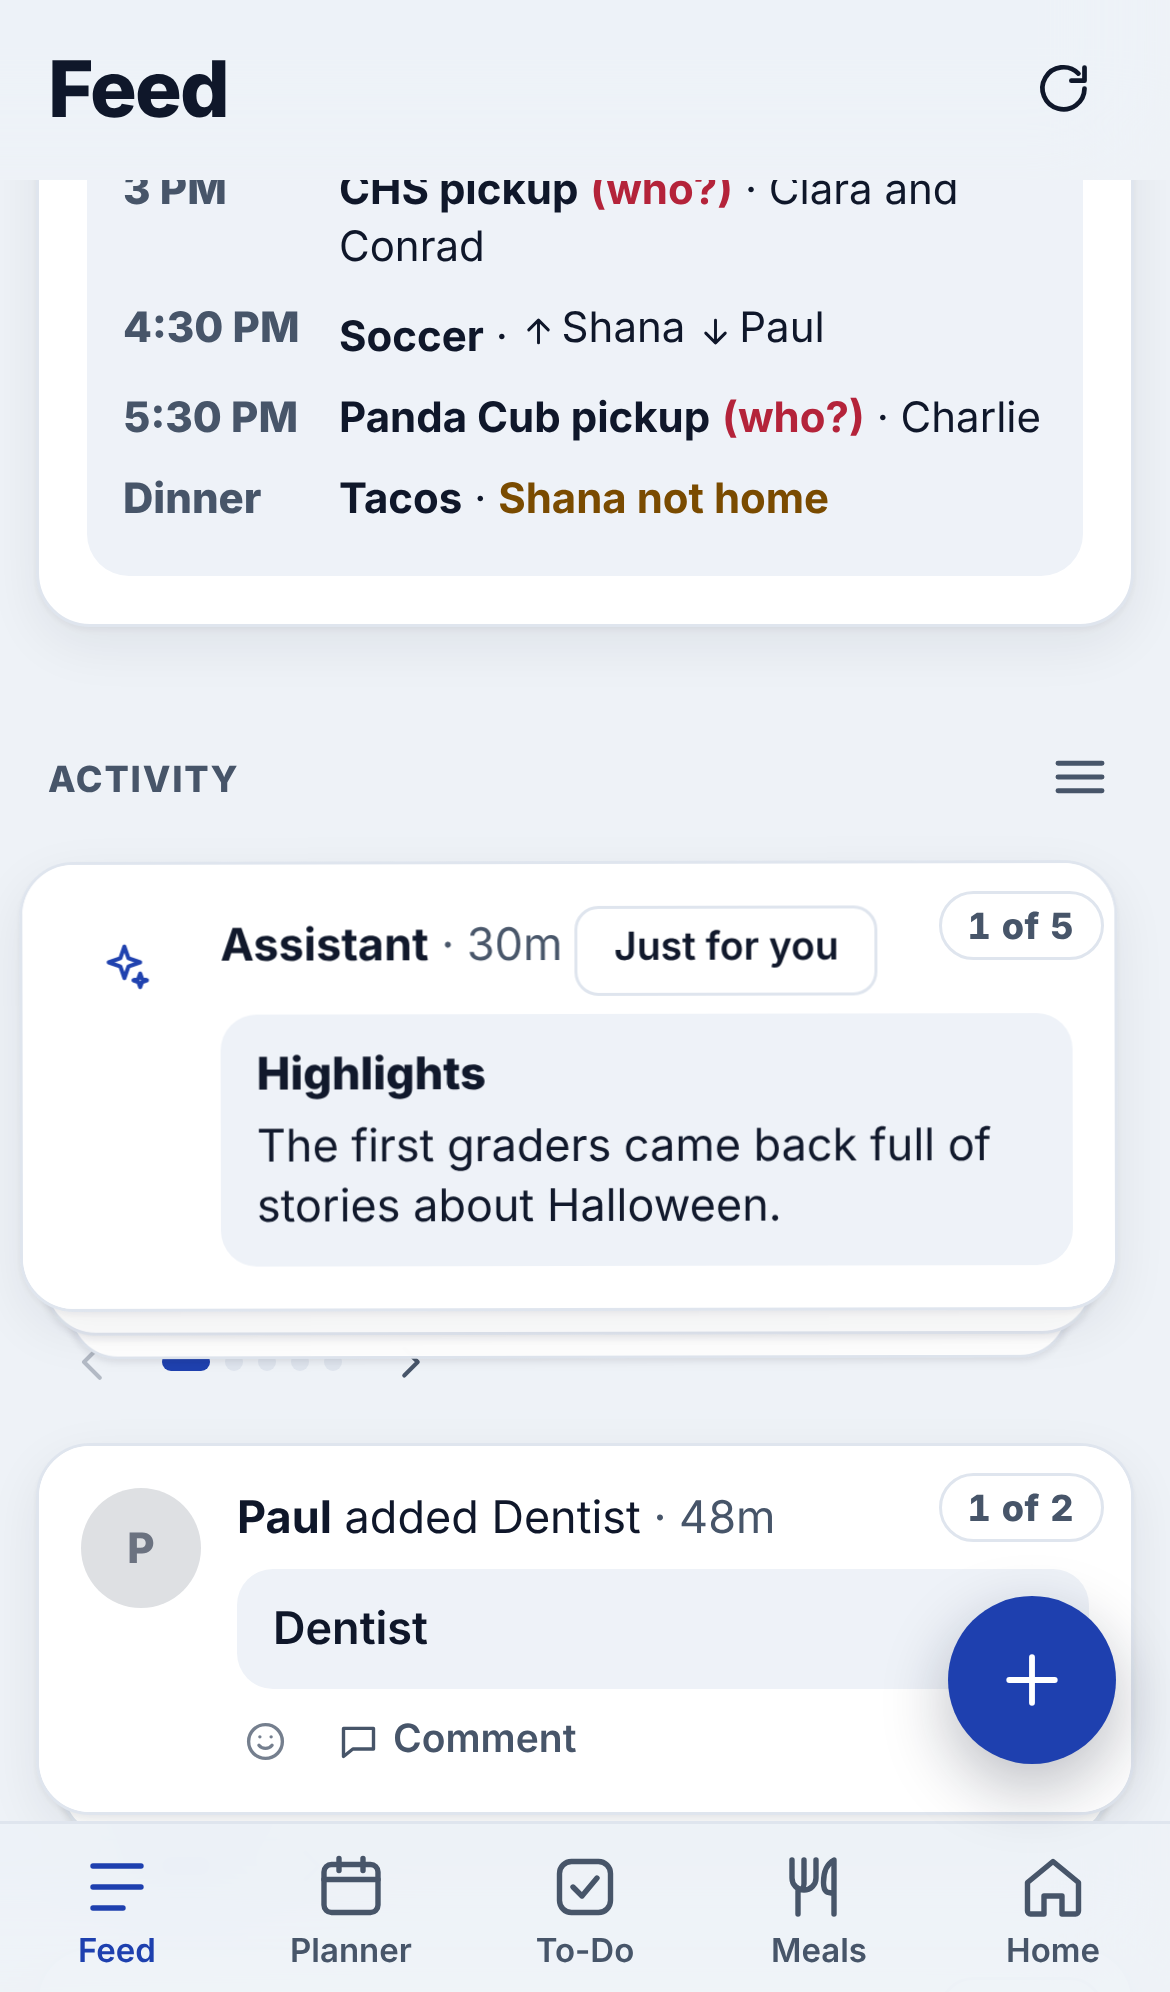
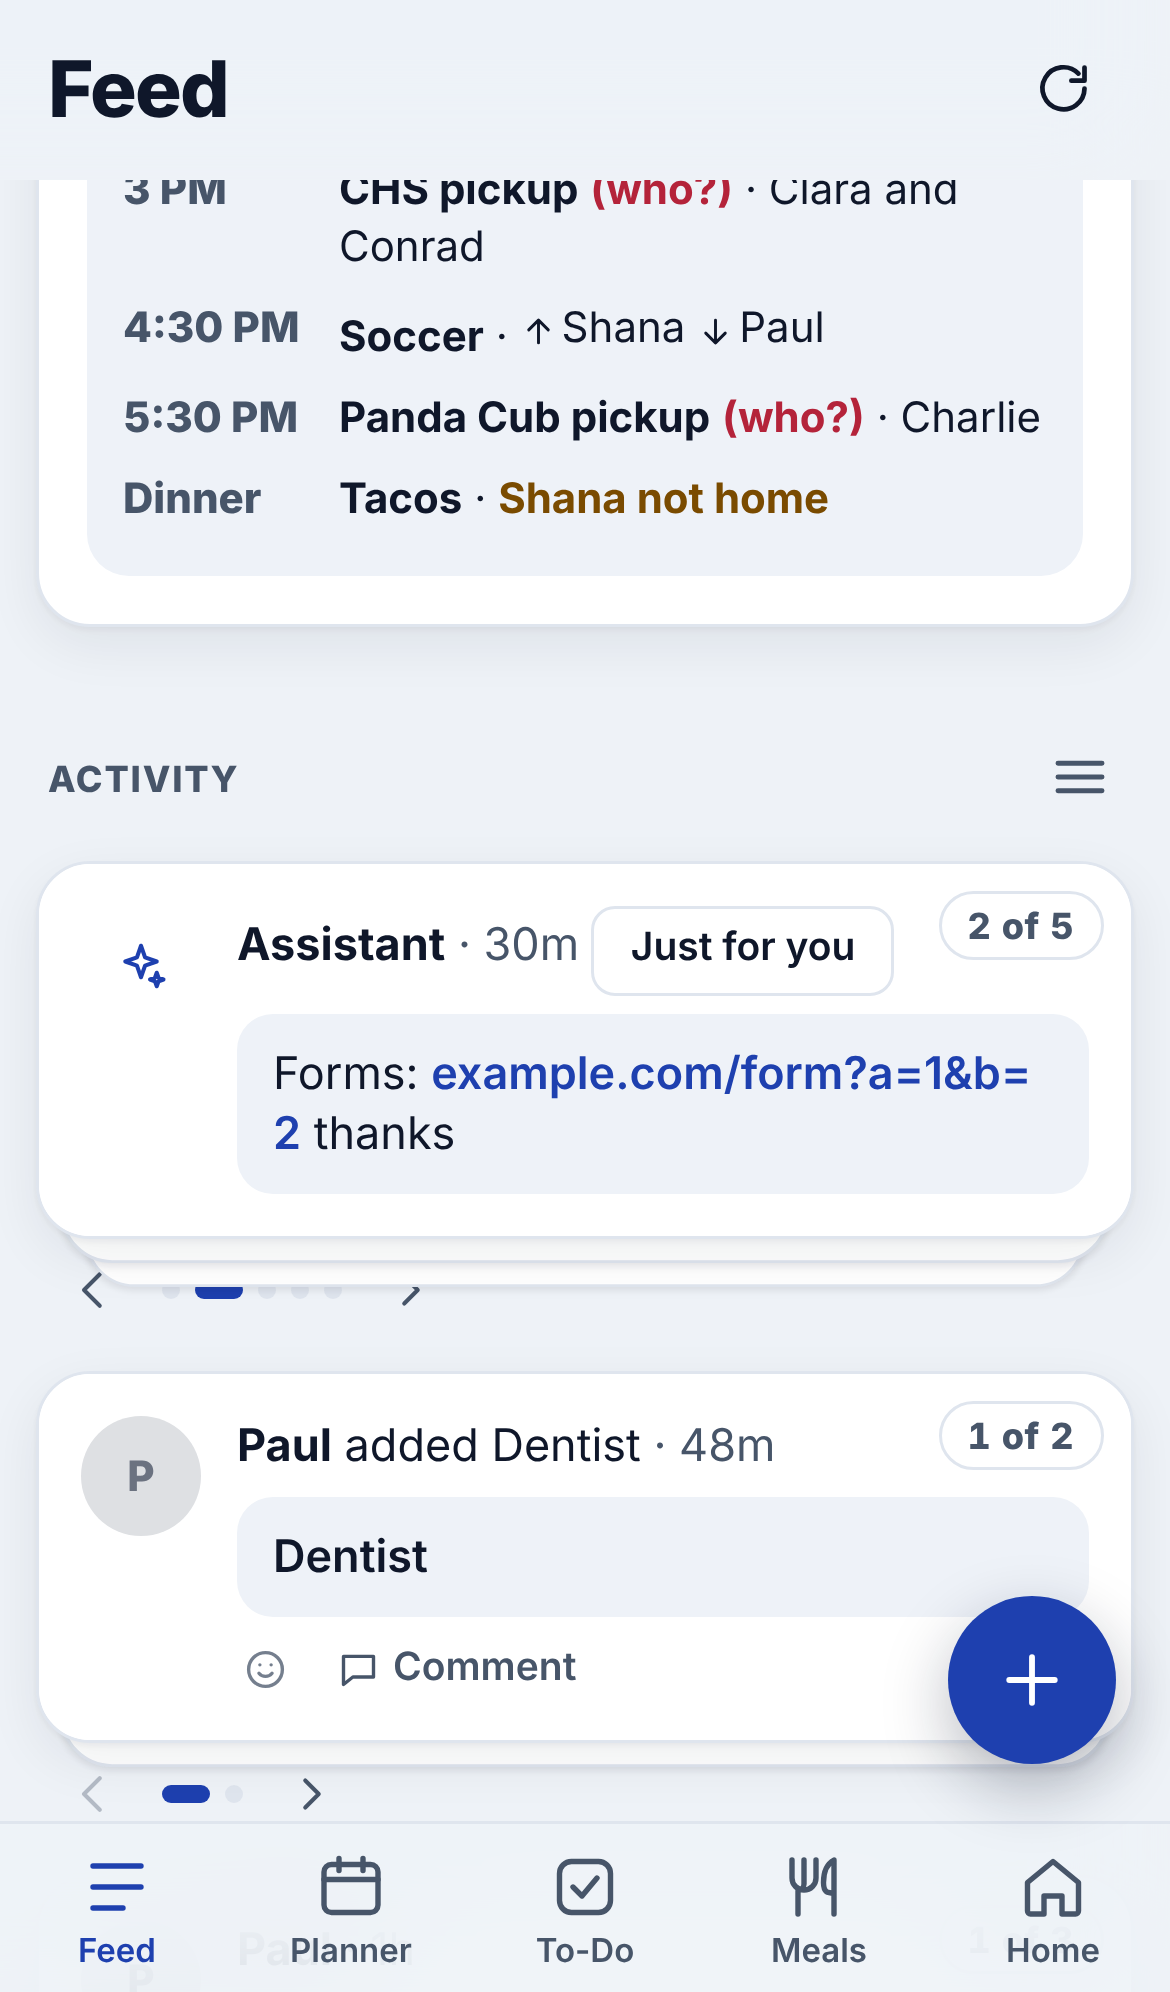
Feed cards: web addresses in post text are tappable links (app 16.9)
Claude-Session: https://claude.ai/code/session_01Fem5ZzQdK1tyoGNhrgVXtT

diff --git a/index.html b/index.html
@@ -415,7 +415,7 @@ a.alink { color: inherit; text-decoration: underline; text-decoration-color: col
 // Momnie Family app v6.0
 const DAYS = ['Mon', 'Tue', 'Wed', 'Thu', 'Fri', 'Sat', 'Sun'], DAYN = ['Monday', 'Tuesday', 'Wednesday', 'Thursday', 'Friday', 'Saturday', 'Sunday'], ADULTS = ['Paul', 'Shana'];
 // Shown at the bottom of Home. Bump it together with VERSION in sw.js on every release.
-const APP_VERSION = '16.8 · Nov 19, 2026';
+const APP_VERSION = '16.9 · Nov 19, 2026';
 const TABLES = ['People', 'Schools', 'SchoolCal', 'Activities', 'Overrides', 'Events', 'Caretakers', 'Childcare', 'Birthdays', 'Annuals', 'Todos', 'TodoTypes', 'Recipes', 'DinnerRules', 'Weeks', 'Menus',
   'Groceries', 'GroceryList', 'HouseCards', 'Houses', 'WeatherRules', 'Quotes', 'Memories', 'Updates', 'Messages', 'Activity', 'Comments', 'Reactions', 'Links', 'Settings', 'Photos', 'gifts', 'ai_rules', 'ai_requests', 'notes', 'places', 'daily_items', 'daily_completions'];
 const CAT = { School: '#3f6fb5', Kids: '#4f7cc2', Work: '#64748b', Family: '#5b6fa8', Dinner: '#b08a4f', Caretaker: '#3e9aa6', Shared: '#94a3b8', Birthday: '#c9806a' }, SCHOOL_C = ['#5a72b8', '#7a8597', '#4a6fb0'];
@@ -2264,8 +2264,11 @@ function groupStacks(rows) {
     g.cards.sort((x, y) => (+(x.m || x.a).stackIdx || 0) - (+(y.m || y.a).stackIdx || 0) || String(x.time).localeCompare(String(y.time)));
     return g; });
 }
+/** Makes web addresses in (already escaped) text into tappable links. The text shown is shortened; the link is whole. */
+const linkify = h => h.replace(/\bhttps?:\/\/[^\s<]+/g, u => { let t = '', m; while ((m = /(&quot;|&#39;|&gt;|&amp;|[.,;:!?)\]])$/.exec(u)) && (m[1] !== '&amp;' || u.length === m[1].length)) { if (m[1] === '&amp;') break; t = m[1] + t; u = u.slice(0, -m[1].length); }
+  const shown = u.replace(/^https?:\/\/(www\.)?/, ''); return `<a href="${u}" target="_blank" rel="noopener" style="word-break:break-all">${shown.length > 42 ? shown.slice(0, 40) + '…' : shown}</a>${t}`; });
 const aiCardText = a => { const m = a.stack && String(a.text || '').match(/^\*\*(.+?)\*\*\s*\n?/);
-  return m ? `<div class="sctitle">${esc(m[1])}</div>${withMentions(String(a.text).slice(m[0].length))}` : withMentions(a.text); };
+  return m ? `<div class="sctitle">${esc(m[1])}</div>${linkify(withMentions(String(a.text).slice(m[0].length)))}` : linkify(withMentions(a.text)); };
 const stackD = (k, i) => k < i ? -1 : Math.min(k - i, 3);
 function stackHTML(g) {
   const n = g.cards.length, i = Math.max(0, Math.min(STK[g.stack] || 0, n - 1));

diff --git a/sw.js b/sw.js
@@ -1,5 +1,5 @@
 // Momnie Family service worker: opens the app instantly from the phone's copy, and receives push notifications.
-const VERSION = 'mf-v16.8';
+const VERSION = 'mf-v16.9';
 const SHELL = ['./', 'index.html', 'manifest.json', 'config.js', 'fonts/caveat-latin.woff2', 'icons/icon-192.png', 'icons/apple-touch-icon.png', 'icons/chs-logo.png', 'icons/panda-cub-logo.png'];
 
 importScripts('config.js');
